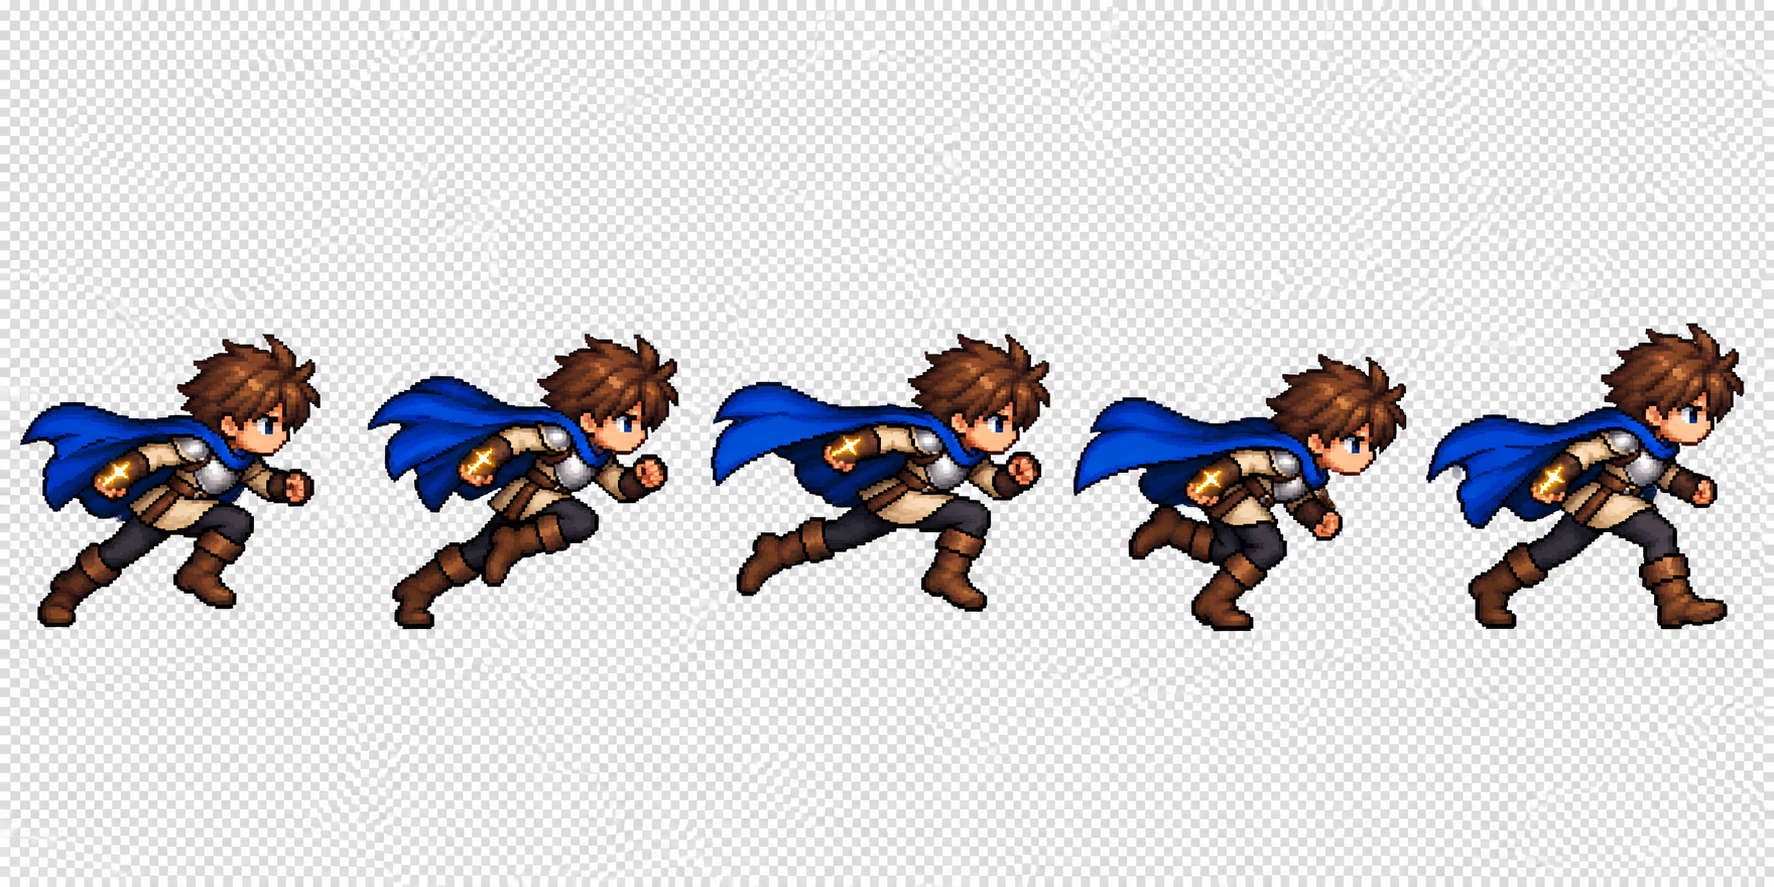
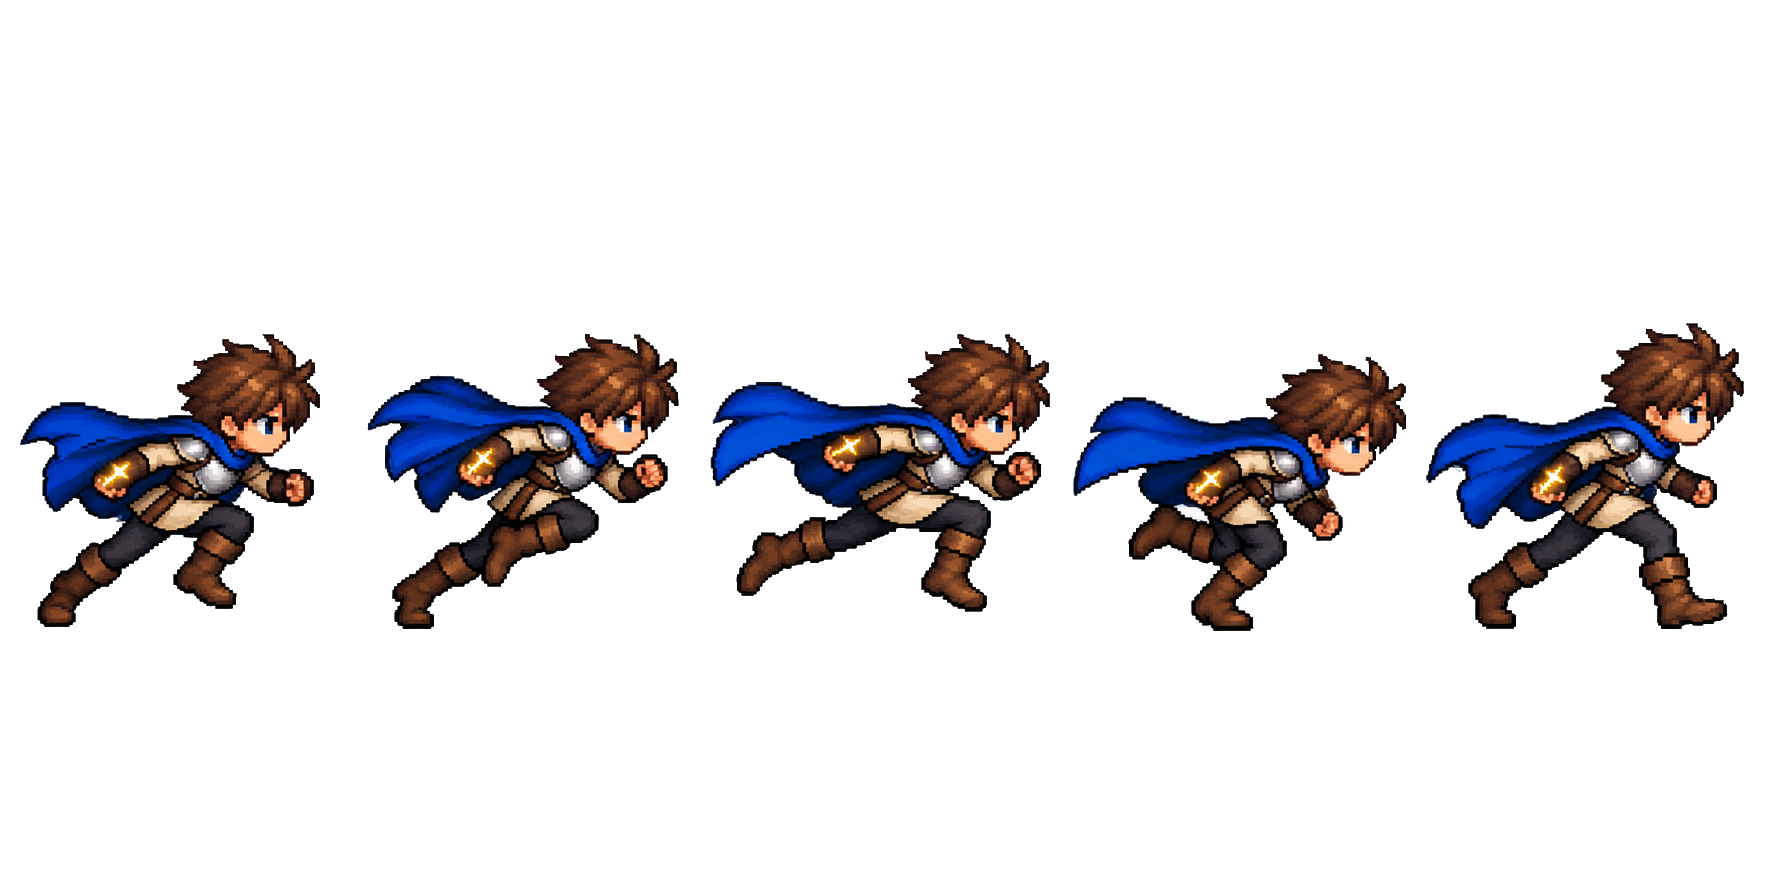
Align movement sprites with idle and remove checker backgrounds

diff --git a/game.js b/game.js
@@ -71,8 +71,8 @@
   // オーブは基礎足場のシートではなく、専用の結晶が入った素材シートから描画する。
   images.orb.src = 'assets/terrain-assets.png';
   images.sprites.src = 'assets/ren-sprites.png';
-  images.walk.src = 'assets/ren-walk-cycle-5.png';
-  images.groundDash.src = 'assets/ren-ground-dash-cycle.png';
+  images.walk.src = 'assets/ren-walk-cycle-5.png?v=2';
+  images.groundDash.src = 'assets/ren-ground-dash-cycle.png?v=2';
   images.enemy.src = 'assets/corruption-wisp.png';
   images.attack.src = 'assets/ren-attack-cycle.png';
   images.pieceSlime.src = 'assets/piece-and-half-slime.png';
@@ -439,7 +439,8 @@
     } else if (!airAttacking && !airDashing && !groundDashing) {
       player.vx = dir * tuning.playerSpeed;
       if (dir) player.facing = dir;
-      if (dir && player.grounded) player.walkClock += dt * 13;
+      // 移動距離に対して足運びが遅いと滑って見えるため、5コマを約18fpsで進める。
+      if (dir && player.grounded) player.walkClock += dt * 18;
     } else if (airAttacking) {
       // 空中攻撃中は入力を受けず、攻撃開始時の移動速度だけが慣性として緩やかに減衰する。
       player.vx *= Math.pow(0.06, dt);
@@ -548,7 +549,7 @@
     for (const point of repairPoints) if(!point.repaired) { ctx.save(); ctx.translate(point.x,point.y); ctx.strokeStyle='#fff39c'; ctx.lineWidth=3; ctx.shadowColor='#f6e767';ctx.shadowBlur=16;ctx.strokeRect(-15,-15,30,30);ctx.fillStyle='#fff6b6';ctx.font='bold 13px sans-serif';ctx.fillText('E 修復',-25,-25);ctx.restore(); }
     if (FEATURES.collectibles) for (const s of shards) if(!s.taken) { const pulse=FEATURES.orbPulse?1+Math.sin(performance.now()/180+s.x)*.12:1;ctx.save(); ctx.translate(s.x,s.y+Math.sin(performance.now()/230+s.x)*7);ctx.scale(pulse,pulse); ctx.shadowColor='#55eaff';ctx.shadowBlur=22; drawImagePart(images.orb,1075,515,190,230,-26,-30,52,64);ctx.restore(); }
     const spriteState = !player.grounded ? 2 : Math.abs(player.vx)>2 ? 1 : 0;
-    ctx.save(); ctx.translate(player.x+player.w/2,player.y); if(player.facing<0)ctx.scale(-1,1); if(player.attack > 0) { const elapsed=.34-player.attack; const attackFrame=elapsed<.11?0:elapsed<.23?1:2; const frames=[[18,70,590,570,-52,-6,104,101],[610,90,830,535,-67,-1,146,96],[1450,90,690,535,-53,-1,112,96]][attackFrame]; drawImagePart(images.attack,...frames); } else if(player.groundDash > 0) { const frame=Math.min(4,Math.floor((.30-player.groundDash)/.06)); const frameWidth=images.groundDash.width/5; drawImagePart(images.groundDash,frame*frameWidth,205,frameWidth,560,-58,0,116,108); } else if(spriteState===1) { const frame=Math.floor(player.walkClock)%5; const frameWidth=images.walk.width/5; drawImagePart(images.walk,frame*frameWidth,70,frameWidth,650,-50,-2,100,112); } else drawImagePart(images.sprites,[60,650,1240][spriteState],145,530,730,-42,0,84,108);ctx.restore();
+    ctx.save(); ctx.translate(player.x+player.w/2,player.y); if(player.facing<0)ctx.scale(-1,1); if(player.attack > 0) { const elapsed=.34-player.attack; const attackFrame=elapsed<.11?0:elapsed<.23?1:2; const frames=[[18,70,590,570,-52,-6,104,101],[610,90,830,535,-67,-1,146,96],[1450,90,690,535,-53,-1,112,96]][attackFrame]; drawImagePart(images.attack,...frames); } else if(player.groundDash > 0) { const frame=Math.min(4,Math.floor((.30-player.groundDash)/.06)); const frameWidth=images.groundDash.width/5; drawImagePart(images.groundDash,frame*frameWidth,200,frameWidth,470,-52,0,104,108); } else if(spriteState===1) { const frame=Math.floor(player.walkClock)%5; const frameWidth=images.walk.width/5; drawImagePart(images.walk,frame*frameWidth,100,frameWidth,550,-45,0,90,108); } else drawImagePart(images.sprites,[60,650,1240][spriteState],145,530,730,-42,0,84,108);ctx.restore();
     const pieceY = player.y - 34 + Math.sin(performance.now()/220)*7; ctx.save();ctx.translate(player.x-16,pieceY);ctx.shadowColor='#b9f8ff';ctx.shadowBlur=16;drawImagePart(images.pieceSlime,130,150,580,620,-22,-22,45,50);ctx.restore();
     const guide=currentGuide(); const guidePlatform=guide && platforms[Math.max(1,Math.floor(platforms.length*.45))];
     if(guide && guidePlatform) { const gy=guidePlatform.y-20-56+Math.sin(performance.now()/230)*6; ctx.save();ctx.translate(guidePlatform.x+guidePlatform.w/2,gy);ctx.shadowColor=guide.color;ctx.shadowBlur=20;drawImagePart(images.pieceSlime,130,150,580,620,-24,-24,48,54);ctx.globalCompositeOperation='source-atop';ctx.globalAlpha=.58;ctx.fillStyle=guide.color;ctx.fillRect(-28,-28,56,62);ctx.globalAlpha=1;ctx.globalCompositeOperation='source-over';ctx.fillStyle='#f7fbff';ctx.textAlign='center';ctx.font='bold 12px sans-serif';ctx.fillText(guide.name,0,-35);ctx.textAlign='start';ctx.restore(); }

diff --git a/index.html b/index.html
@@ -144,6 +144,6 @@
     </main>
     <script src="config.js?v=8"></script>
     <script src="stage-layouts.js?v=1"></script>
-    <script src="game.js?v=33"></script>
+    <script src="game.js?v=34"></script>
   </body>
 </html>
